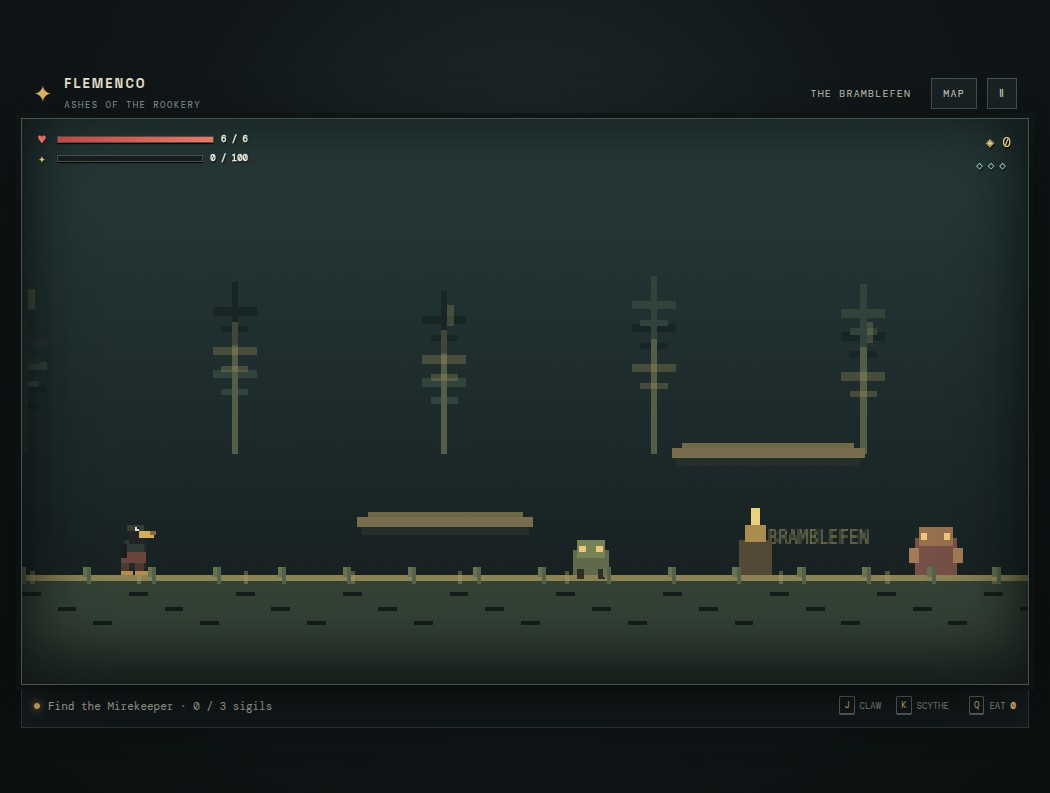
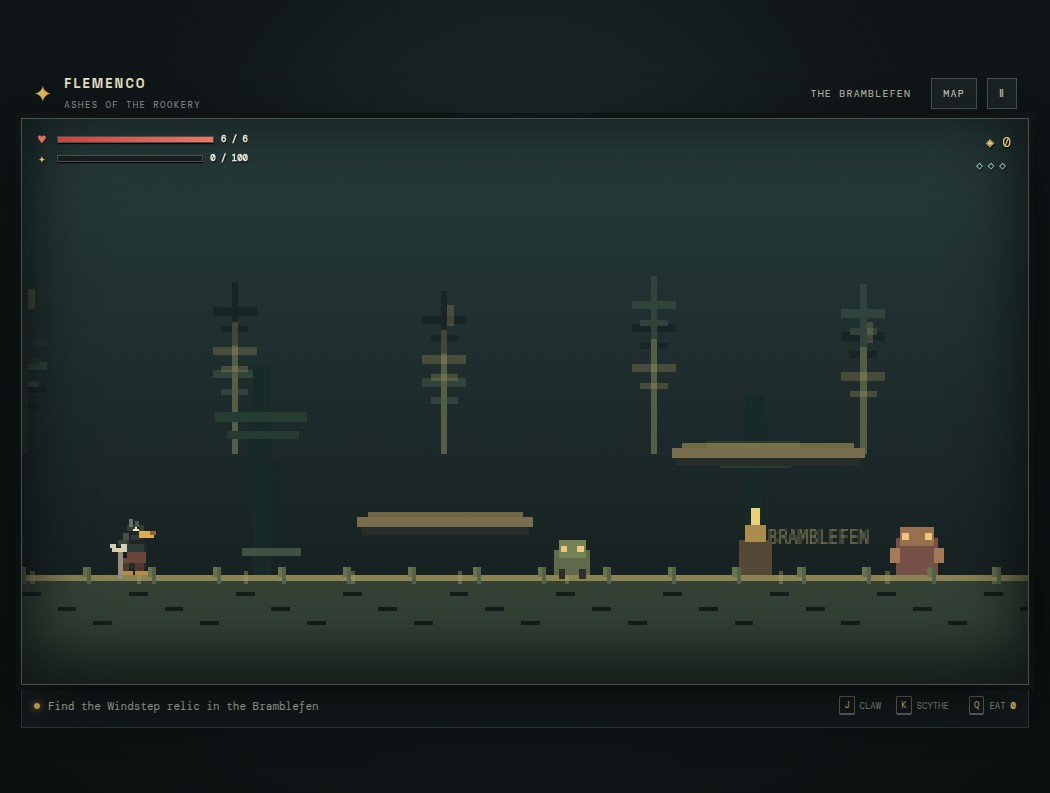
Publish static build for issue #1
Run: 42694617074
Attempt: 1
Generation: 5
Source: 5e1559e34f99846ef5afb2b2ce1000916b0d1c5d

diff --git a/game.js b/game.js
@@ -17,19 +17,24 @@
     [ [110,183,88],[260,145,90],[430,177,100],[570,135,90] ]
   ];
   const $ = id => document.getElementById(id);
-  const state = {started:false,paused:false,map:false,upgrade:false,won:false,dead:false,toastTimer:0,frame:0,keys:{},pressed:{},camera:0,zone:0,visited:new Set([0]),kills:0,scrap:0,meat:0,upgrades:{claw:0,scythe:0,heart:0,dash:0},sigils:0,gateOpen:[false,false,false],superUnlocked:false};
-  const player = {x:46,y:188,vx:0,vy:0,w:14,h:24,face:1,health:6,maxHealth:6,energy:0,onGround:false,attack:0,attackType:'',charge:0,dashing:0,invuln:0,anim:0,meat:0,hitIds:new Set(),superFlash:0};
+  const state = {started:false,paused:false,map:false,upgrade:false,won:false,dead:false,toastTimer:0,frame:0,keys:{},pressed:{},camera:0,zone:0,visited:new Set([0]),kills:0,scrap:0,meat:0,upgrades:{claw:0,scythe:0,heart:0,dash:0},sigils:0,gateOpen:[false,false,false],abilities:{windstep:false,doubleJump:false,breaker:false},superUnlocked:false};
+  const player = {x:46,y:188,vx:0,vy:0,w:14,h:24,face:1,health:6,maxHealth:6,energy:0,onGround:false,jumps:0,attack:0,attackType:'',charge:0,dashing:0,invuln:0,anim:0,meat:0,hitIds:new Set(),superFlash:0};
   const enemies = [];
   const bosses = [];
   const drops = [];
   const particles = [];
   const shrines = [350,1120,1880,2640];
+  const relics = [
+    {x:620,zone:0,kind:'windstep',name:'WINDSTEP'},
+    {x:1360,zone:1,kind:'doubleJump',name:'WINGBURST'},
+    {x:2120,zone:2,kind:'breaker',name:'SEVERING EDGE'}
+  ];
   function makeEnemy(x, type='crawler', zone=Math.floor(x/ZONE_W)) {
     const cfg = type==='brute'?{hp:5,w:20,h:23,speed:.42,damage:1}:{hp:3,w:17,h:17,speed:.65,damage:1};
     enemies.push({x,y:218-cfg.h,vx:0,w:cfg.w,h:cfg.h,hp:cfg.hp,maxHp:cfg.hp,type,zone,dir:Math.random()<.5?-1:1,hit:0,attack:0,stun:0,dead:false,anim:Math.random()*10});
   }
   [120,270,430,590,850,1020,1240,1390,1640,1800,2020,2160,2410,2580,2780].forEach((x,i)=>makeEnemy(x,i%4===2?'brute':'crawler'));
-  [ {x:682,zone:0,name:'MIREKEEPER',kind:'bog',hp:18},{x:1440,zone:1,name:'THE FURNACE WARDEN',kind:'forge',hp:22},{x:2200,zone:2,name:'THE GLASS MATRIARCH',kind:'glass',hp:24},{x:2960,zone:3,name:'THE WHITE ROOK',kind:'final',hp:34} ].forEach(b=>bosses.push({...b,y:180,w:b.kind==='final'?24:28,h:38,maxHp:b.hp,dir:-1,attack:0,hit:0,stun:0,phase:0,dead:false,warning:0}));
+  [ {x:1440,zone:1,name:'THE FURNACE WARDEN',kind:'forge',hp:22},{x:2960,zone:3,name:'THE WHITE ROOK',kind:'final',hp:34} ].forEach(b=>bosses.push({...b,y:180,w:b.kind==='final'?24:28,h:38,maxHp:b.hp,dir:-1,attack:0,hit:0,stun:0,phase:0,dead:false,warning:0}));
   function notify(text){const el=$('toast');el.textContent=text;el.classList.add('show');state.toastTimer=120}
   function setObjective(text){$('objective-text').textContent=text}
   function updateHud(){
@@ -42,7 +47,7 @@
   }
   const clamp=(n,a,b)=>Math.max(a,Math.min(b,n));
   const rect=(x,y,w,h,color)=>{ctx.fillStyle=color;ctx.fillRect(Math.round(x),Math.round(y),Math.round(w),Math.round(h))};
-  function start(){if(state.started)return;state.started=true;$('modal').classList.add('hidden');notify('THE ROOKERY REMEMBERS YOUR NAME');setObjective('Reach the end of the Bramblefen');requestAnimationFrame(loop)}
+  function start(){if(state.started)return;state.started=true;$('modal').classList.add('hidden');notify('THE ROOKERY REMEMBERS YOUR NAME');setObjective('Explore the Bramblefen · seek the Windstep relic');requestAnimationFrame(loop)}
   $('start-button').addEventListener('click',start);
   $('pause-button').addEventListener('click',togglePause);$('resume-button').addEventListener('click',togglePause);
   $('map-button').addEventListener('click',toggleMap);$('close-map').addEventListener('click',toggleMap);
@@ -66,25 +71,27 @@
   function pressed(...keys){return keys.some(k=>state.pressed[k])}function held(...keys){return keys.some(k=>state.keys[k])}
   function tryAttack(type){if(player.attack>0||player.dashing>0)return;player.attack=type==='claw'?13:19;player.attackType=type;player.hitIds.clear();if(type==='heavy'){player.charge=0;player.energy=Math.min(100,player.energy+4)}}
   function hitTarget(target,damage,type){if(target.dead||player.hitIds.has(target))return;player.hitIds.add(target);target.hp-=damage;target.hit=8;target.stun=12;target.dir=(target.x+target.w/2<player.x+player.w/2)?-1:1;target.x+=player.face*3;for(let i=0;i<5;i++)particles.push({x:target.x+target.w/2,y:target.y+target.h/2,vx:(Math.random()-.5)*2,vy:(Math.random()-.8)*2,life:18,color:type==='heavy'?'#f0ca6c':'#d78369'});if(type==='heavy'){player.health=Math.min(player.maxHealth,player.health+1);player.energy=Math.min(100,player.energy+16);notify('+1 LIFE · SCYTHE DRAIN')}else player.energy=Math.min(100,player.energy+5);if(target.hp<=0){target.dead=true;state.kills++;state.scrap+=target===undefined?0:1;drops.push({x:target.x+target.w/2,y:target.y+target.h-3,type:'meat',life:999});drops.push({x:target.x+target.w/2+7,y:target.y+target.h-8,type:'scrap',life:999});notify('FOE FELLED · MEAT + SCRAP')}}
-  function combat(){const claw=player.attackType==='claw',heavy=player.attackType==='heavy';if(player.attack<=0)return;const range=heavy?46:27,vert=heavy?34:27;for(const e of enemies){if(!e.dead&&e.zone===state.zone&&Math.abs((e.x+e.w/2)-(player.x+player.w/2+player.face*range*.55))<range*.65&&Math.abs((e.y+e.h/2)-(player.y+player.h/2))<vert){hitTarget(e,heavy?4+state.upgrades.scythe*2:1+state.upgrades.claw,e===null?'claw':heavy?'heavy':'claw')}}for(const b of bosses){if(!b.dead&&b.zone===state.zone&&Math.abs((b.x+b.w/2)-(player.x+player.w/2+player.face*range*.55))<range*.65&&Math.abs((b.y+b.h/2)-(player.y+player.h/2))<48){hitTarget(b,heavy?3+state.upgrades.scythe*2:1+state.upgrades.claw,heavy?'heavy':'claw')}}}
+  function combat(){const heavy=player.attackType==='heavy';if(player.attack<=0)return;const range=heavy?(state.abilities.breaker?58:46):27,vert=heavy?34:27;for(const e of enemies){if(!e.dead&&e.zone===state.zone&&Math.abs((e.x+e.w/2)-(player.x+player.w/2+player.face*range*.55))<range*.65&&Math.abs((e.y+e.h/2)-(player.y+player.h/2))<vert){hitTarget(e,heavy?4+state.upgrades.scythe*2+(state.abilities.breaker?2:0):1+state.upgrades.claw,heavy?'heavy':'claw')}}for(const b of bosses){if(!b.dead&&b.zone===state.zone&&Math.abs((b.x+b.w/2)-(player.x+player.w/2+player.face*range*.55))<range*.65&&Math.abs((b.y+b.h/2)-(player.y+player.h/2))<48){hitTarget(b,heavy?3+state.upgrades.scythe*2+(state.abilities.breaker?2:0):1+state.upgrades.claw,heavy?'heavy':'claw')}}}
   function superAttack(){if(!state.superUnlocked){notify('A SHRINE CAN TEACH YOU STARFALL');return}if(player.energy<100){notify('STARFALL NEEDS FULL ENERGY');return}player.energy=0;player.superFlash=26;for(const e of enemies){if(!e.dead&&e.zone===state.zone&&Math.abs(e.x-player.x)<125)hitTarget(e,6+state.upgrades.scythe*2,'heavy')}for(const b of bosses){if(!b.dead&&b.zone===state.zone&&Math.abs(b.x-player.x)<140)hitTarget(b,8+state.upgrades.scythe*2,'heavy')}for(let i=0;i<30;i++)particles.push({x:player.x+player.w/2,y:player.y+12,vx:(Math.random()-.5)*4,vy:(Math.random()-.5)*4,life:25,color:'#ffe7a0'});notify('STARFALL!')}
   function eatMeat(){const item=drops.find(d=>d.type==='meat'&&Math.abs(d.x-(player.x+7))<42&&Math.abs(d.y-player.y)<45);if(player.meat>0&&player.health<player.maxHealth){player.meat--;player.health=Math.min(player.maxHealth,player.health+2);notify('YOU FEAST · +2 LIFE')}else if(item){item.type='gone';player.health=Math.min(player.maxHealth,player.health+2);notify('FRESH MEAT · +2 LIFE')}else if(player.meat>0)notify('YOU ARE ALREADY AT FULL HEALTH');else notify('NO MEAT NEARBY')}
   function update(){state.frame++;if(state.toastTimer>0&&!--state.toastTimer)$('toast').classList.remove('show');if(state.paused||state.map||state.upgrade||state.won||state.dead){state.pressed={};return}
-    let move=(held('a','arrowleft')?-1:0)+(held('d','arrowright')?1:0);if(move){player.vx=move*1.65;player.face=move}else player.vx*=.78;
-    if(pressed('w',' ','arrowup')&&player.onGround){player.vy=-5.15;player.onGround=false;for(let i=0;i<4;i++)particles.push({x:player.x+7,y:player.y+23,vx:(Math.random()-.5),vy:-Math.random(),life:10,color:'#c8c0a3'})}
-    if(pressed('shift','x')&&player.dashing<=0){player.dashing=13;player.invuln=Math.max(player.invuln,17);player.vx=player.face*(4.4+state.upgrades.dash*.7);player.vy=0;for(let i=0;i<6;i++)particles.push({x:player.x,y:player.y+12,vx:-player.face*Math.random()*2,vy:(Math.random()-.5),life:13,color:'#83c7bd'})}
+    const move=(held('a','arrowleft')?-1:0)+(held('d','arrowright')?1:0);
+    if(player.dashing<=0){if(move){player.vx=move*1.65;player.face=move}else player.vx*=.78}
+    if(pressed('w',' ','arrowup')&&(player.onGround||(state.abilities.doubleJump&&player.jumps<2))){player.vy=-5.15;player.onGround=false;player.jumps++;for(let i=0;i<6;i++)particles.push({x:player.x+7,y:player.y+23,vx:(Math.random()-.5)*1.5,vy:-Math.random()*1.4,life:12,color:player.jumps===2?'#9ce4da':'#c8c0a3'})}
+    if(pressed('shift','x')&&player.dashing<=0){player.dashing=state.abilities.windstep?14:10;player.invuln=Math.max(player.invuln,17);player.vx=player.face*((state.abilities.windstep?8:6.2)+state.upgrades.dash*.8);player.vy=0;for(let i=0;i<9;i++)particles.push({x:player.x,y:player.y+12,vx:-player.face*(.7+Math.random()*2.2),vy:(Math.random()-.5)*1.5,life:16,color:i%2?'#83c7bd':'#d7f0dc'})}
     if(pressed('j'))tryAttack('claw');
     if(held('k')){player.charge=Math.min(1,player.charge+.025);if(player.charge>.13&&state.frame%7===0)particles.push({x:player.x+player.w/2+player.face*9,y:player.y+8,vx:player.face*.5,vy:-.3,life:10,color:'#ecd18a'})}
     if(!held('k')&&player.charge>.03&&player.attack<=0){player.attack=17+Math.floor(player.charge*8);player.attackType='heavy';player.hitIds.clear();if(player.charge>.7)player.energy=Math.min(100,player.energy+5);player.charge=0}
     if(pressed('l'))superAttack();if(pressed('q','e'))eatMeat();
     for(const x of shrines)if(Math.abs(player.x-x)<25&&pressed('u'))openUpgrades();
-    if(player.dashing>0)player.dashing--;else{player.vy=Math.min(6,player.vy+.24);player.x+=player.vx;player.y+=player.vy}
+    if(player.dashing>0){player.x+=player.vx;player.vy=0;if(--player.dashing===0)player.vx=0}else{player.vy=Math.min(6,player.vy+.24);player.x+=player.vx;player.y+=player.vy}
     player.x=clamp(player.x,0,WORLD_W-player.w);player.onGround=false;
-    const floor=218-player.h;if(player.y>=floor){player.y=floor;player.vy=0;player.onGround=true}
+    const floor=218-player.h;if(player.y>=floor){player.y=floor;player.vy=0;player.onGround=true;player.jumps=0}
+    for(const r of relics){if(!r.taken&&Math.abs(player.x+player.w/2-r.x)<20&&Math.abs(player.y+player.h/2-203)<32){r.taken=true;if(r.kind==='windstep'){state.abilities.windstep=true;state.gateOpen[0]=true}else if(r.kind==='doubleJump'){state.abilities.doubleJump=true;state.gateOpen[1]=true}else{state.abilities.breaker=true;state.gateOpen[2]=true}state.sigils=Math.min(3,state.sigils+1);notify(`${r.name} AWAKENED · NEW PATHS OPEN`);state.scrap+=2}}
     const z=Math.floor(player.x/ZONE_W);state.zone=clamp(z,0,3);state.visited.add(state.zone);
-    for(let i=0;i<4;i++){const roomStart=i*ZONE_W,roomEnd=roomStart+ZONE_W;if(player.x>roomEnd-15&&i<3&&!state.gateOpen[i]){player.x=roomEnd-15;player.vx=0;if(!bosses[i].dead)notify('DEFEAT THE ZONE GUARDIAN TO OPEN THE WAY');else {state.gateOpen[i]=true;player.x=roomEnd+2}}}
+    for(let i=0;i<3;i++){const roomEnd=(i+1)*ZONE_W;if(player.x>roomEnd-15&&!state.gateOpen[i]){player.x=roomEnd-15;player.vx=0;if(state.toastTimer===0){if(i===0&&!state.abilities.windstep)notify('A RIFT NEEDS WINDSTEP · SEARCH THIS WILD');else if(i===1&&!state.abilities.doubleJump)notify('THE HIGH PASS NEEDS WINGBURST');else notify('THE SEALED ARCH NEEDS THE SEVERING EDGE')}}}
     // Landing on floating platforms.
-    for(let i=state.zone*ZONE_W;i<(state.zone+1)*ZONE_W;i+=ZONE_W){for(const [px,py,pw] of platformData[i/ZONE_W]){const x=i+px;if(player.vy>=0&&player.x+player.w>x&&player.x<x+pw&&player.y+player.h>=py&&player.y+player.h-player.vy<=py+2){player.y=py-player.h;player.vy=0;player.onGround=true}}}
+    for(let i=state.zone*ZONE_W;i<(state.zone+1)*ZONE_W;i+=ZONE_W){for(const [px,py,pw] of platformData[i/ZONE_W]){const x=i+px;if(player.vy>=0&&player.x+player.w>x&&player.x<x+pw&&player.y+player.h>=py&&player.y+player.h-player.vy<=py+2){player.y=py-player.h;player.vy=0;player.onGround=true;player.jumps=0}}}
     if(player.y>H+20)hurtPlayer(1);
     if(player.attack>0){player.attack--;combat()};if(player.invuln>0)player.invuln--;if(player.superFlash>0)player.superFlash--;player.anim+=Math.abs(player.vx)*.1+.04;
     for(const e of enemies){if(e.dead||e.zone!==state.zone)continue;e.anim+=.08;if(e.hit>0)e.hit--;if(e.attack>0)e.attack--;if(e.stun>0){e.stun--;continue}const dx=(player.x-e.x);if(Math.abs(dx)<135){e.dir=dx>0?1:-1;e.x+=e.dir*e.speed;if(Math.abs(dx)<24&&e.attack<=0){e.attack=58;hurtIfTouch(e)}}else e.x+=Math.sin(state.frame*.018+e.x)*.18;e.x=clamp(e.x,e.zone*ZONE_W+10,(e.zone+1)*ZONE_W-30);}
@@ -95,8 +102,8 @@
     for(const d of drops){if(d.type==='gone')continue;d.y+=Math.sin((state.frame+d.x)*.08)*.12;if(d.type==='scrap'&&Math.abs(d.x-player.x-7)<12&&Math.abs(d.y-player.y-10)<25){d.type='gone';state.scrap++;notify('+1 SCRAP')}else if(d.type==='meat'&&Math.abs(d.x-player.x-7)<11&&Math.abs(d.y-player.y-10)<20){d.type='gone';player.meat++;notify('MEAT COLLECTED · PRESS Q TO EAT')}}
     for(const p of particles){p.x+=p.vx;p.y+=p.vy;p.vy+=.03;p.life--}for(let i=particles.length-1;i>=0;i--)if(particles[i].life<=0)particles.splice(i,1);
     const target=clamp(player.x-W*.43,0,WORLD_W-W);state.camera+=(target-state.camera)*.12;
-    if(bosses[state.zone]&&bosses[state.zone].x-player.x<300&&bosses[state.zone].x>player.x-120&&!bosses[state.zone].dead){$('boss-hud').classList.remove('hidden');$('boss-name').textContent=bosses[state.zone].name;$('boss-fill').style.width=`${100*bosses[state.zone].hp/bosses[state.zone].maxHp}%`}else $('boss-hud').classList.add('hidden');
-    if(state.zone===0)setObjective('Find the Mirekeeper · ' + state.sigils + ' / 3 sigils');else if(state.zone===1)setObjective('Cross the Emberworks · Claim the furnace sigil');else if(state.zone===2)setObjective('Break the glass guardian · ' + state.sigils + ' / 3 sigils');else setObjective('The White Rook awaits · ' + state.sigils + ' / 3 sigils');
+    const nearbyBoss=bosses.find(b=>b.zone===state.zone&&b.x-player.x<300&&b.x>player.x-120&&!b.dead);if(nearbyBoss){$('boss-hud').classList.remove('hidden');$('boss-name').textContent=nearbyBoss.name;$('boss-fill').style.width=`${100*nearbyBoss.hp/nearbyBoss.maxHp}%`}else $('boss-hud').classList.add('hidden');
+    if(state.zone===0)setObjective(state.abilities.windstep?'Explore the Bramblefen · Windstep path open':'Find the Windstep relic in the Bramblefen');else if(state.zone===1)setObjective(state.abilities.doubleJump?'Explore the Emberworks · optional Warden nearby':'Find Wingburst to reach the high pass');else if(state.zone===2)setObjective(state.abilities.breaker?'Explore the Glass Cathedral · the final route is open':'Find the Severing Edge relic');else setObjective('Reach the White Rook · explore and prepare');
     updateHud();state.pressed={};
   }
   function hurtIfTouch(e){if(Math.abs((player.x+7)-(e.x+e.w/2))<20&&Math.abs(player.y-e.y)<24)hurtPlayer(1)}
@@ -104,6 +111,8 @@
   function drawBackground(){const z=zones[state.zone];ctx.fillStyle=z.sky;ctx.fillRect(0,0,W,H);const g=ctx.createLinearGradient(0,0,0,H);g.addColorStop(0,z.sky);g.addColorStop(1,'#141b1d');ctx.fillStyle=g;ctx.fillRect(0,0,W,H);
     // distant layered silhouettes
     for(let layer=0;layer<3;layer++){const parallax=.12+layer*.13;ctx.fillStyle=layer===0?'#182526':layer===1?z.far:'#283331';for(let i=-1;i<9;i++){let x=i*100-(state.camera*parallax%100);let height=45+((i*37+layer*11)%41);rect(x,160-height,3,height,ctx.fillStyle);rect(x-9,160-height+12,21,4,ctx.fillStyle);rect(x-5,160-height+21,13,3,ctx.fillStyle);if(layer===2&&i%2===0)rect(x+3,148-height,3,10,z.accent+'44')}}
+    // Large, parallax landmarks make each region readable beyond its palette.
+    const landmarkBase=state.zone*ZONE_W;for(let i=0;i<3;i++){const lx=landmarkBase+110+i*235-state.camera,top=118+(i%2)*14;if(lx<-70||lx>W+70)continue;if(state.zone===0){rect(lx,top,9,100,'#172a27');rect(lx-18,top+22,44,5,'#263b32');rect(lx-12,top+31,34,4,'#263b32');rect(lx+8,top+45,4,40,'#182723');rect(lx-5,top+87,28,4,'#3f5140')}else if(state.zone===1){rect(lx,top-12,34,112,'#492e2b');rect(lx+5,top,24,80,'#714036');rect(lx+9,top+12,6,13,'#d5794d');rect(lx+21,top+31,7,17,'#e39754');rect(lx-4,top+94,43,5,'#a24e35')}else if(state.zone===2){rect(lx,top-27,38,127,'#243b48');rect(lx+5,top-17,28,89,'#638e91');rect(lx+9,top-12,7,78,'#9ccfc8');rect(lx+21,top-12,7,78,'#8ab5b7');rect(lx+2,top+73,34,6,'#b3d9d2');rect(lx+15,top-28,7,105,'#d1e8dc')}else{rect(lx,top-22,38,122,'#373e3e');rect(lx+4,top-14,30,94,'#70716a');rect(lx+9,top+2,6,19,'#d9d5c6');rect(lx+23,top+2,6,19,'#d9d5c6');rect(lx+15,top-34,8,24,'#c7c1af');rect(lx-5,top+94,48,5,'#99988c')}}
     // distant moon / furnace glow
     if(state.zone===1){ctx.fillStyle='#d8754e22';ctx.beginPath();ctx.arc(362,75,46,0,Math.PI*2);ctx.fill()}else if(state.zone===3){ctx.fillStyle='#f0ead51a';ctx.beginPath();ctx.arc(348,67,33,0,Math.PI*2);ctx.fill()}
     // ground
@@ -116,6 +125,8 @@
   function drawPlayer(){let x=Math.round(player.x-state.camera),y=Math.round(player.y);if(player.invuln>0&&Math.floor(state.frame/4)%2===0)return;const face=player.face;ctx.save();ctx.translate(x+7,y);ctx.scale(face,1);
     // ordinary crow's body, wings and beak
     rect(-5,8,11,13,'#232a29');rect(-4,7,9,10,'#303a37');rect(-2,1,7,8,'#202625');rect(-3,0,8,3,'#353e3a');rect(3,3,7,3,'#d7ad54');rect(8,3,3,2,'#8e653a');rect(1,1,2,2,'#f1e7bf');rect(2,1,1,1,'#181d1c');
+    // layered feather plates, crown quills, and a bright eye make the rook read clearly at game scale
+    rect(-5,4,3,3,'#45504b');rect(-7,7,4,3,'#39443f');rect(-6,10,3,4,'#59615a');rect(-4,14,4,2,'#687067');rect(-2,-3,2,4,'#68716a');rect(1,-2,2,3,'#505b55');rect(-1,5,4,2,'#303936');rect(0,2,1,1,'#fff6d8');
     // cloak and legs
     rect(-6,13,12,5,'#6a453b');rect(-6,18,4,4,'#4e3932');rect(1,18,4,4,'#4e3932');rect(-6,22,6,2,'#b98b48');rect(1,22,6,2,'#b98b48');rect(-6,9,3,7,'#171e1d');
     // scythe carried at the back, blade rests over beak on heavy charge
@@ -123,7 +134,7 @@
     // claw swipe visual
     if(player.attack>0&&player.attackType==='claw'){rect(8,10,9,2,'#eee2bf');rect(13,8,7,1,'#eee2bf');rect(15,11,6,1,'#eee2bf')}
     if(player.attack>0&&player.attackType==='heavy'){rect(9,1,19,3,'#d8d2ba');rect(24,-2,7,3,'#d8d2ba');rect(30,-3,3,3,'#d8d2ba')}
-    if(player.dashing>0){ctx.globalAlpha=.4;rect(-17,5,14,17,'#88c9bb')}
+    if(player.dashing>0){for(let i=1;i<=3;i++){ctx.globalAlpha=.27/i;rect(-10-i*7,7,10,14,i===1?'#a9e3d6':'#75aaa2');rect(-8-i*7,4,7,4,'#a9e3d6')}}
     ctx.restore();if(player.superFlash>0){ctx.globalAlpha=player.superFlash/26*.55;ctx.fillStyle='#fff0bb';ctx.fillRect(0,0,W,H);ctx.globalAlpha=1}}
   function drawEnemy(e){const x=Math.round(e.x-state.camera),y=Math.round(e.y);ctx.save();if(e.hit>0)ctx.globalAlpha=.55;let c=e.type==='brute'?'#765046':'#5f6a4c';rect(x,y+5,e.w,e.h-5,c);rect(x+2,y,e.w-4,9,e.type==='brute'?'#98704f':'#748256');rect(x+3,y+3,3,3,'#edc77a');rect(x+e.w-6,y+3,3,3,'#edc77a');if(e.type==='brute'){rect(x-3,y+10,5,7,'#a37b58');rect(x+e.w-2,y+10,5,7,'#a37b58')}else{rect(x+2,y+e.h-3,3,5,'#302d27');rect(x+e.w-5,y+e.h-3,3,5,'#302d27')}ctx.restore()}
   function drawBoss(b){let x=Math.round(b.x-state.camera),y=Math.round(b.y);ctx.save();if(b.hit>0)ctx.globalAlpha=.5;if(b.kind==='final'){
@@ -132,6 +143,8 @@
     }else{const body=b.kind==='bog'?'#555d43':b.kind==='forge'?'#994b36':'#6d9091';rect(x+3,y+10,22,28,body);rect(x+1,y+3,26,14,b.kind==='glass'?'#9ccfc8':'#7e7259');rect(x+7,y-2,14,10,'#303837');rect(x+7,y+4,4,3,'#edc66d');rect(x+18,y+4,4,3,'#edc66d');rect(x-3,y+18,7,12,body);rect(x+25,y+18,7,12,body);if(b.kind==='forge')rect(x+10,y+13,11,7,'#f18a4d');else if(b.kind==='glass'){rect(x+12,y-8,4,8,'#8fc9c3');rect(x+4,y+23,20,2,'#b7e5df')}}
     if(b.warning>0){ctx.fillStyle='#f3dfaa';ctx.font='8px monospace';ctx.textAlign='center';ctx.fillText('!',x+b.w/2,y-13);ctx.strokeStyle='#f4dd9d';ctx.globalAlpha=.25;ctx.beginPath();ctx.arc(x+b.w/2,y+b.h/2,36+(28-b.warning)*2,0,Math.PI*2);ctx.stroke()}ctx.restore()}
   function draw(){drawBackground();ctx.save();for(const x of shrines){let sx=x-state.camera;if(sx>-20&&sx<W+20){rect(sx-8,201,16,17,'#544937');rect(sx-5,194,10,8,'#aa8d4e');rect(sx-2,186,4,8,'#ead27d');if(Math.abs(player.x-x)<26){ctx.fillStyle='#e5cc83';ctx.font='7px monospace';ctx.fillText('U · SHRINE',sx-22,180)}}}
+    for(let i=0;i<3;i++){if(state.gateOpen[i])continue;const gx=(i+1)*ZONE_W-state.camera;if(gx>-12&&gx<W+12){rect(gx-3,91,6,127,'#172021');for(let y=96;y<215;y+=12){rect(gx-5,y,10,3,zones[i].accent);rect(gx-1,y+3,2,7,'#d7c89b')}rect(gx-10,85,20,5,zones[i].accent);rect(gx-9,216,18,3,'#b9a260')}}
+    for(const r of relics){if(r.taken)continue;const x=r.x-state.camera,y=193+Math.sin(state.frame*.08+r.x)*3;if(x>-20&&x<W+20){rect(x-5,y-7,10,13,'#24413e');rect(x-3,y-10,6,7,'#d3e6c6');rect(x-2,y-8,3,5,'#fff6ca');rect(x-6,y+5,12,2,'#91bda4');if(Math.abs(player.x-r.x)<48){ctx.fillStyle='#f0e2ac';ctx.font='7px monospace';ctx.textAlign='center';ctx.fillText('RELIC · '+r.name,x,y-15)}}}
     for(const d of drops){if(d.type==='gone')continue;let x=d.x-state.camera;rect(x-3,d.y-3,6,6,d.type==='meat'?'#b76648':'#e0be68');if(d.type==='meat')rect(x-1,d.y-4,3,2,'#e2a07b')}
     enemies.forEach(e=>{if(!e.dead&&e.zone===state.zone)drawEnemy(e)});bosses.forEach(b=>{if(!b.dead&&b.zone===state.zone)drawBoss(b)});for(const p of particles){ctx.globalAlpha=clamp(p.life/18,0,1);rect(p.x-state.camera,p.y,2,2,p.color)}ctx.globalAlpha=1;drawPlayer();
     // soft foreground blades
@@ -139,7 +152,7 @@
     if(state.dead||state.won){ctx.fillStyle='#071011aa';ctx.fillRect(0,0,W,H)}
   }
   function showEnd(title,sub){const panel=$('modal');panel.classList.remove('hidden');panel.innerHTML=`<div class="modal-card"><div class="eyebrow">${state.won?'THE ROOKERY IS QUIET':'A ROOKERY TALE'}</div><h1 style="font-size:30px">${title}</h1><p class="intro">${sub}</p><p class="small-note">Scrap gathered · ${state.scrap} &nbsp; Foes felled · ${state.kills}</p><button id="restart-button" class="primary-button">FLY AGAIN ↗</button></div>`;document.getElementById('restart-button').onclick=()=>location.reload()}
-  function checkBossDeaths(){for(const b of bosses){if(b.hp<=0&&!b.rewarded){b.dead=true;b.rewarded=true;state.scrap+=5;state.sigils=Math.min(3,state.sigils+1);if(b.zone<3){state.gateOpen[b.zone]=true;notify('GUARDIAN FALLEN · SIGIL CLAIMED');if(b.zone===0)state.superUnlocked=true;setObjective('The gate is open. Press on.')}else{state.won=true;showEnd('THE ROOKERY IS YOURS','The white blade falls. The rookery sings again.')}}}}
+  function checkBossDeaths(){for(const b of bosses){if(b.hp<=0&&!b.rewarded){b.dead=true;b.rewarded=true;state.scrap+=5;if(b.kind==='final'){state.won=true;showEnd('THE ROOKERY IS YOURS','The white blade falls. The rookery sings again.')}else{notify('WARDEN FELLED · +5 SCRAP · OPTIONAL BOSS');if(!state.superUnlocked){state.superUnlocked=true;notify('STARFALL UNLOCKED · PRESS L')}}}}}
   const oldUpdate=update;
   function loop(){if(!state.started)return;oldUpdate();checkBossDeaths();draw();requestAnimationFrame(loop)}
   // Boss damage is routed through the same melee resolver; award sigils immediately after each defeat.

diff --git a/index.html b/index.html
@@ -23,7 +23,7 @@
         <div id="boss-hud" class="boss-hud hidden"><div class="boss-name" id="boss-name">THE MIREKEEPER</div><div class="meter boss-meter"><div id="boss-fill" class="fill boss-fill"></div></div></div>
         <div id="toast" class="toast"></div>
         <div id="map-panel" class="map-panel hidden"><div class="panel-title">ROOKERY MAP <button id="close-map">×</button></div><div id="map-content"></div><small>Gold rooms are explored · Ring gates are locked</small></div>
-        <div id="modal" class="modal"><div class="modal-card"><div class="eyebrow">A 32-BIT ADVENTURE</div><h1>FLEMENCO</h1><p class="subtitle">ASHES OF THE ROOKERY</p><p class="intro">The old rookery is burning. Find the three sigils, forge your scythe, and face the white-winged usurper.</p><button id="start-button" class="primary-button">BEGIN YOUR FLIGHT <span>↗</span></button><div class="controls"><div><kbd>A</kbd><kbd>D</kbd> move <kbd>W</kbd> / <kbd>Space</kbd> jump</div><div><kbd>J</kbd> claws <kbd>K</kbd> charge scythe <kbd>Shift</kbd> dash</div><div><kbd>L</kbd> super <kbd>E</kbd> eat meat <kbd>M</kbd> map</div></div><p class="small-note">Tip: a charged scythe strike steals life. Spend scrap at shrines to upgrade.</p></div></div>
+        <div id="modal" class="modal"><div class="modal-card"><div class="eyebrow">A 32-BIT ADVENTURE</div><h1>FLEMENCO</h1><p class="subtitle">ASHES OF THE ROOKERY</p><p class="intro">Explore four wild regions, uncover movement relics, and open new paths back through the rookery. A furnace warden guards an optional challenge; the white-winged usurper waits at the end.</p><button id="start-button" class="primary-button">BEGIN YOUR FLIGHT <span>↗</span></button><div class="controls"><div><kbd>A</kbd><kbd>D</kbd> move <kbd>W</kbd> / <kbd>Space</kbd> jump</div><div><kbd>J</kbd> claws <kbd>K</kbd> charge scythe <kbd>Shift</kbd> dash</div><div><kbd>L</kbd> super <kbd>E</kbd> eat meat <kbd>M</kbd> map</div></div><p class="small-note">Relics unlock routes: Windstep, Wingburst (double jump), then the Severing Edge. Explore and backtrack; guardians are not gate keys.</p></div></div>
         <div id="upgrade-panel" class="upgrade-panel hidden"></div>
         <div id="pause-cover" class="pause-cover hidden"><div><h2>PAUSED</h2><p>Take a breath, little rook.</p><button id="resume-button" class="primary-button">RESUME</button></div></div>
       </div>
